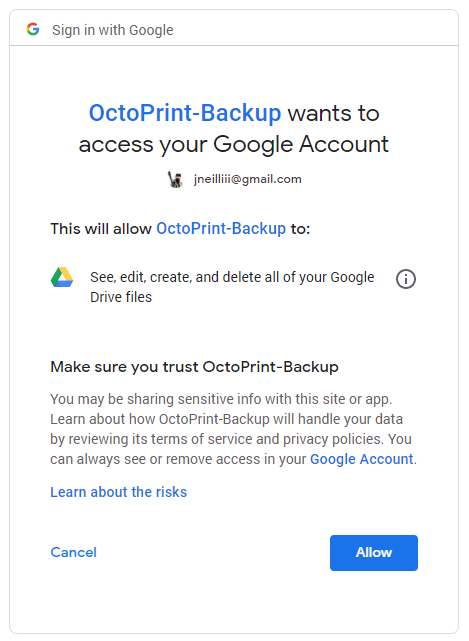
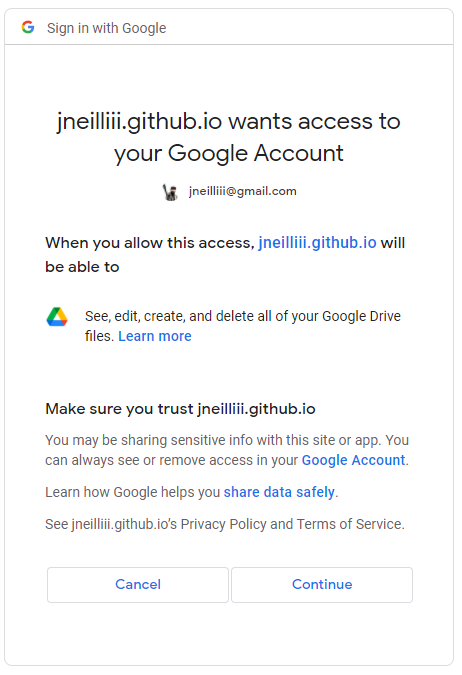
update instructions

diff --git a/README.md b/README.md
@@ -41,7 +41,7 @@ sudo apt install libssl-dev
 ![screenshot](screenshots/settings_step10.png)
 12.	Click on `Create credentials` and select `OAuth client ID`. <br>
 ![screenshot](screenshots/settings_step11.png)
-13.	Select `Desktop App` for application type and then enter a name (can be anything and does not really matter) and then click `Create`. <br>
+13.	Select `Web application` for application type and then enter a name (can be anything and does not really matter). Fill in the Authorized redirect URIs as `https://jneilliii.github.io/OctoPrint-GoogleDriveFiles/` and then click `Create`. <br>
 ![screenshot](screenshots/settings_step12.png)
 14.	Click `OK` to the confirmation page and then use the download button ![screenshot](screenshots/settings_download.png) to save your client_secrets#####.json file. <br>
 ![screenshot](screenshots/settings_step13.png)
@@ -61,15 +61,17 @@ Once the Prerequisite steps above have been completed and you have downloaded yo
 ![screenshot](screenshots/configuration_step1.png)
 2. Fill in the name of the folder you'd like to sync with in your Google Drive (will be added if it doesn't exist), use the `Browse` button to select your downloaded client_secrets#####.json file and press the `Upload` button. <br>
 ![screenshot](screenshots/configuration_step2.png)
-3. An authentication URL will be generated and presented to you. Click that new URL to open a new window and authorize your custom Google app. <br>
+3. An authentication URL will be generated, click the `Get Auth Code` button to open a new window and authorize your custom Google app. <br>
 ![screenshot](screenshots/configuration_step3.png)
-4. Log in to your Google account you want to give Drive access to. You will get a warning that the App isn't verified. This is normal as you have not submitted your custom app for verification by Google. You can choose to do that if you want but is not necessary for the operation of the plugin. Click the `Advanced` link at the bottom of the page and the click `Go to <app name>`. <br>
+4. Log in to your Google account you want to give Drive access to. You will get a warning that the App isn't verified. This is normal as you have not submitted your custom app for verification by Google. You can choose to do that if you want but is not necessary for the operation of the plugin. Click the `Continue` button. <br>
 ![screenshot](screenshots/configuration_step4.png)
-5. Click the `Allow` button to retrieve your authentication code to enter in the plugin's settings in the next step. <br>
+5. Click the `Continue` button to retrieve your authentication code.<br>
 ![screenshot](screenshots/configuration_step5.png)
-6. Copy the code from step 5 and paste it into the **Auth Code** field and click `Authorize`. <br>
+6. Click the copy button to copy the authentication code to the clipboard.<br>
+![screenshot](screenshots/configuration_step5a.png)
+7. Paste the code copied in the previous step into the **Auth Code** field and click `Authorize`. <br>
 ![screenshot](screenshots/configuration_step6.png)
-7. If everything went well then you will be presented with a successful message. <br>
+8. If everything went well then you will be presented with a successful message. <br>
 ![screenshot](screenshots/configuration_step7.png)
 
 ## Get Help
